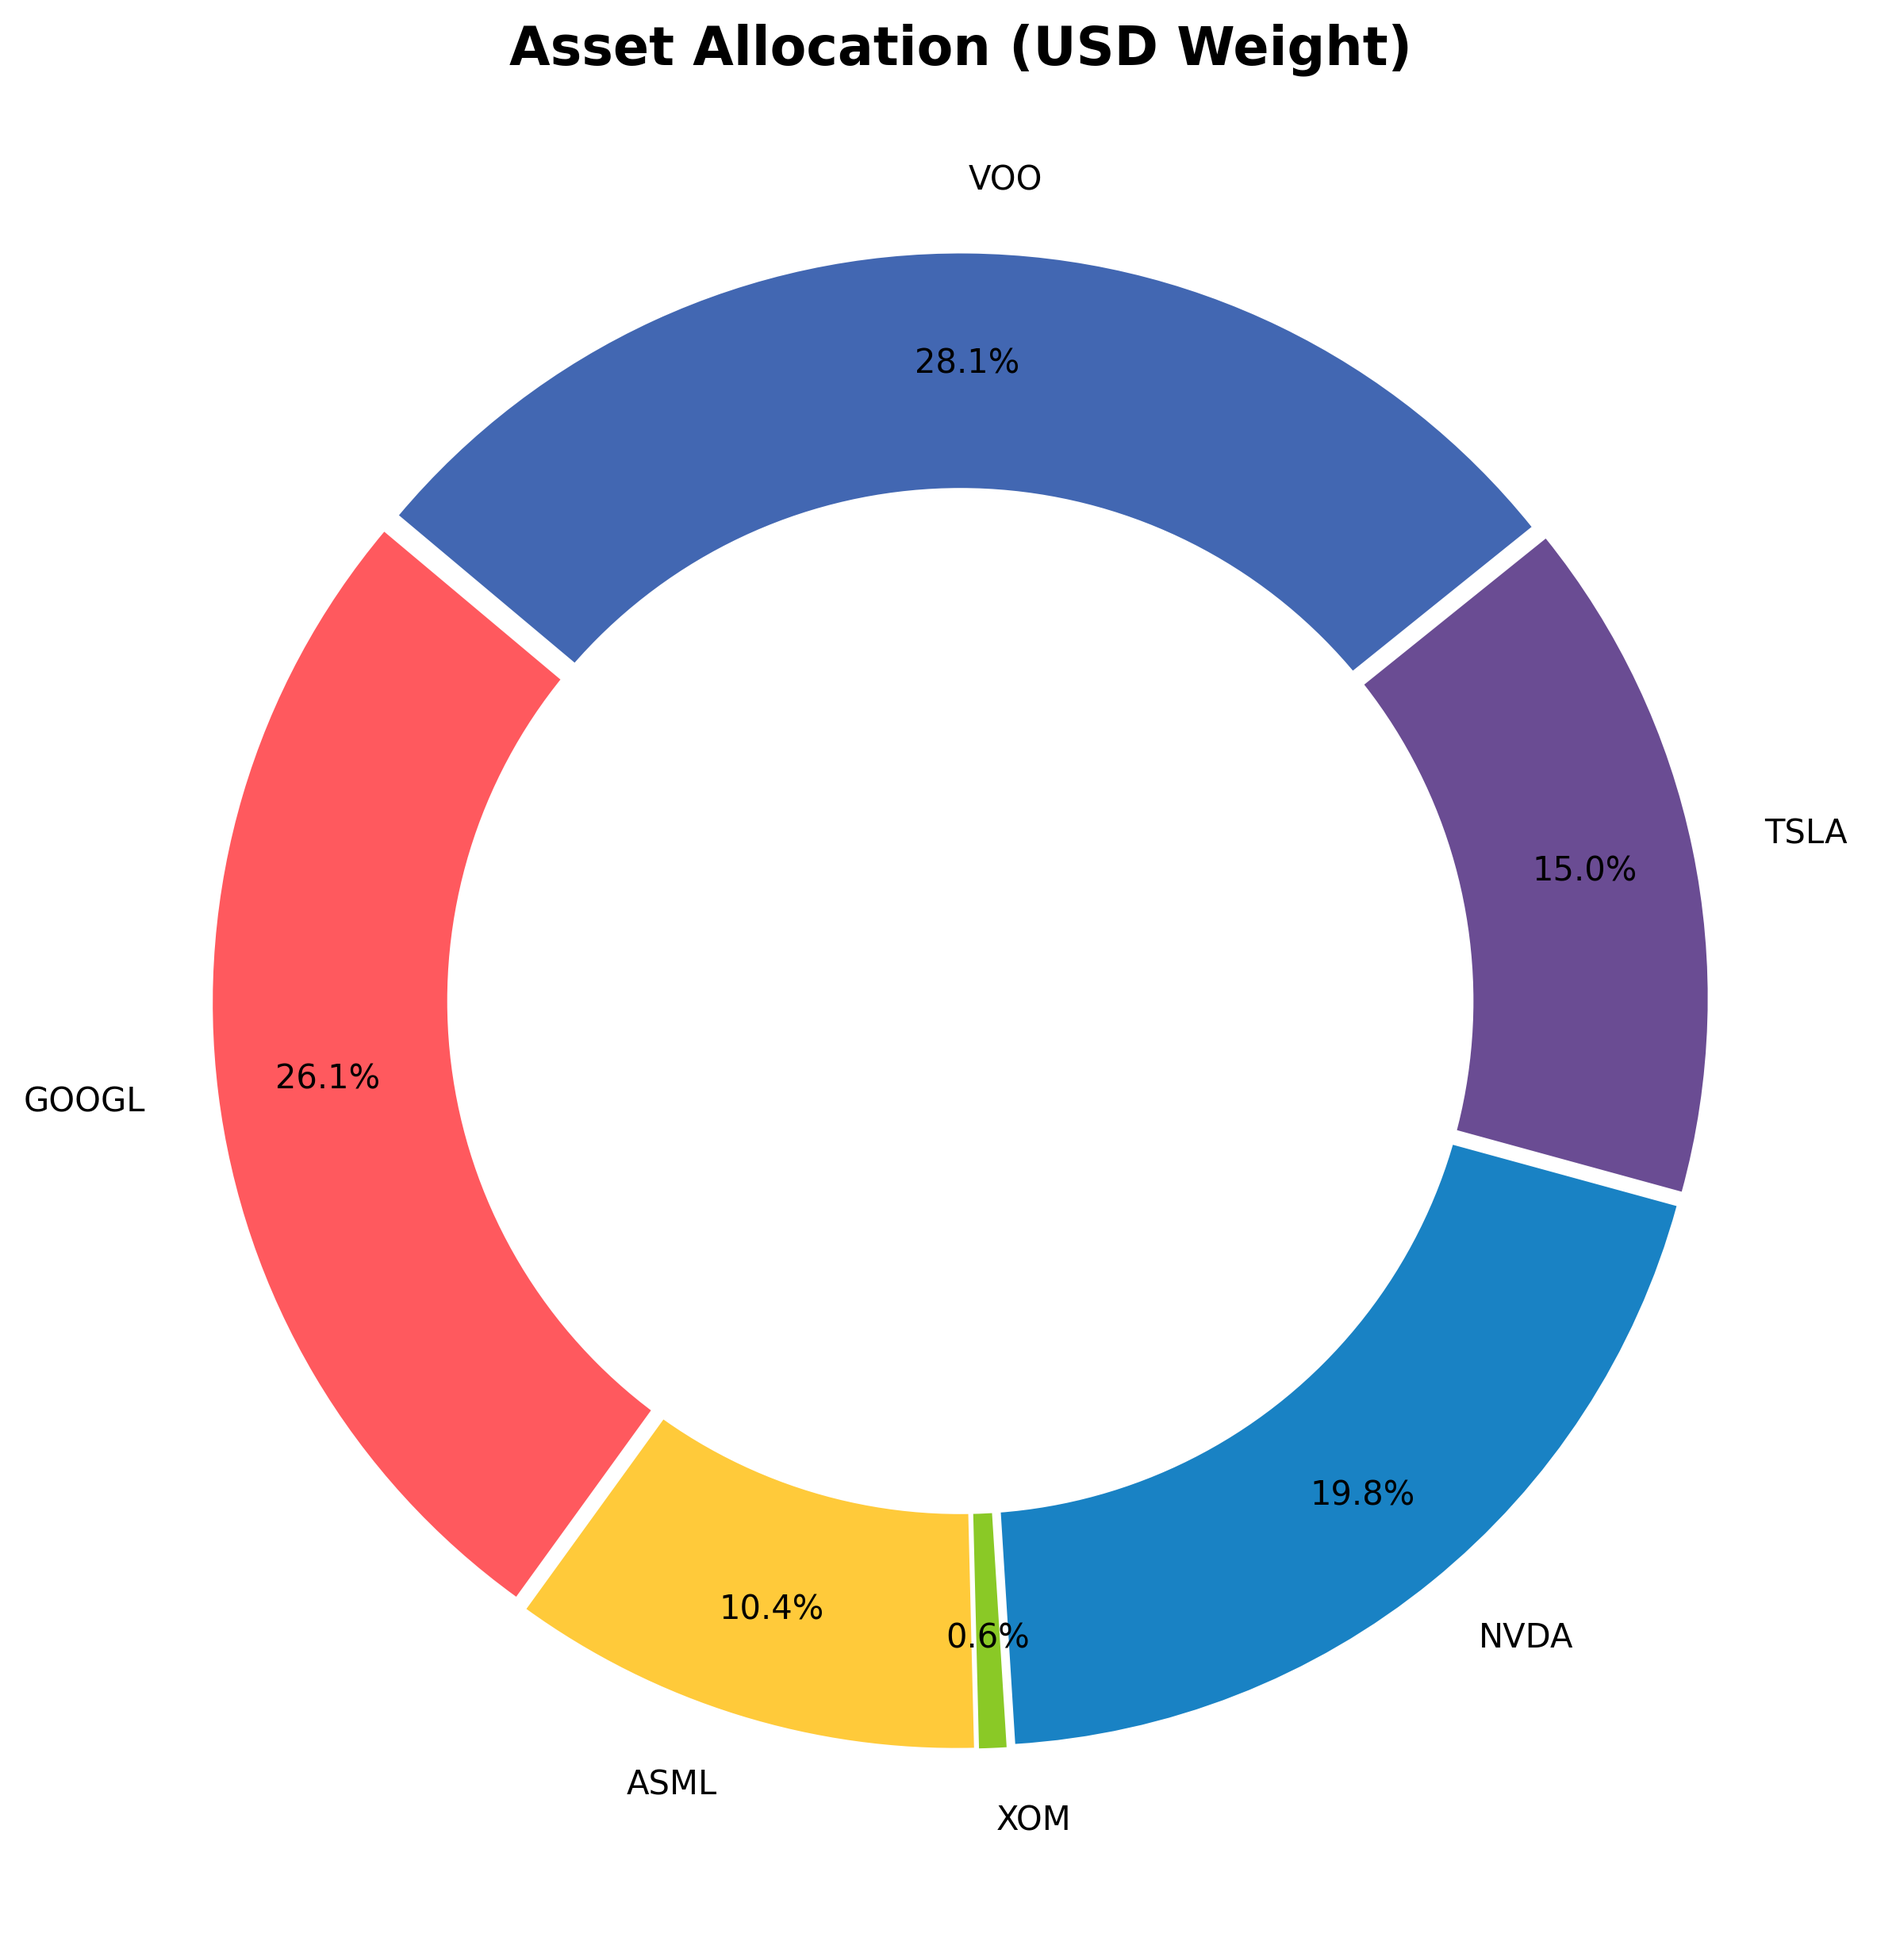
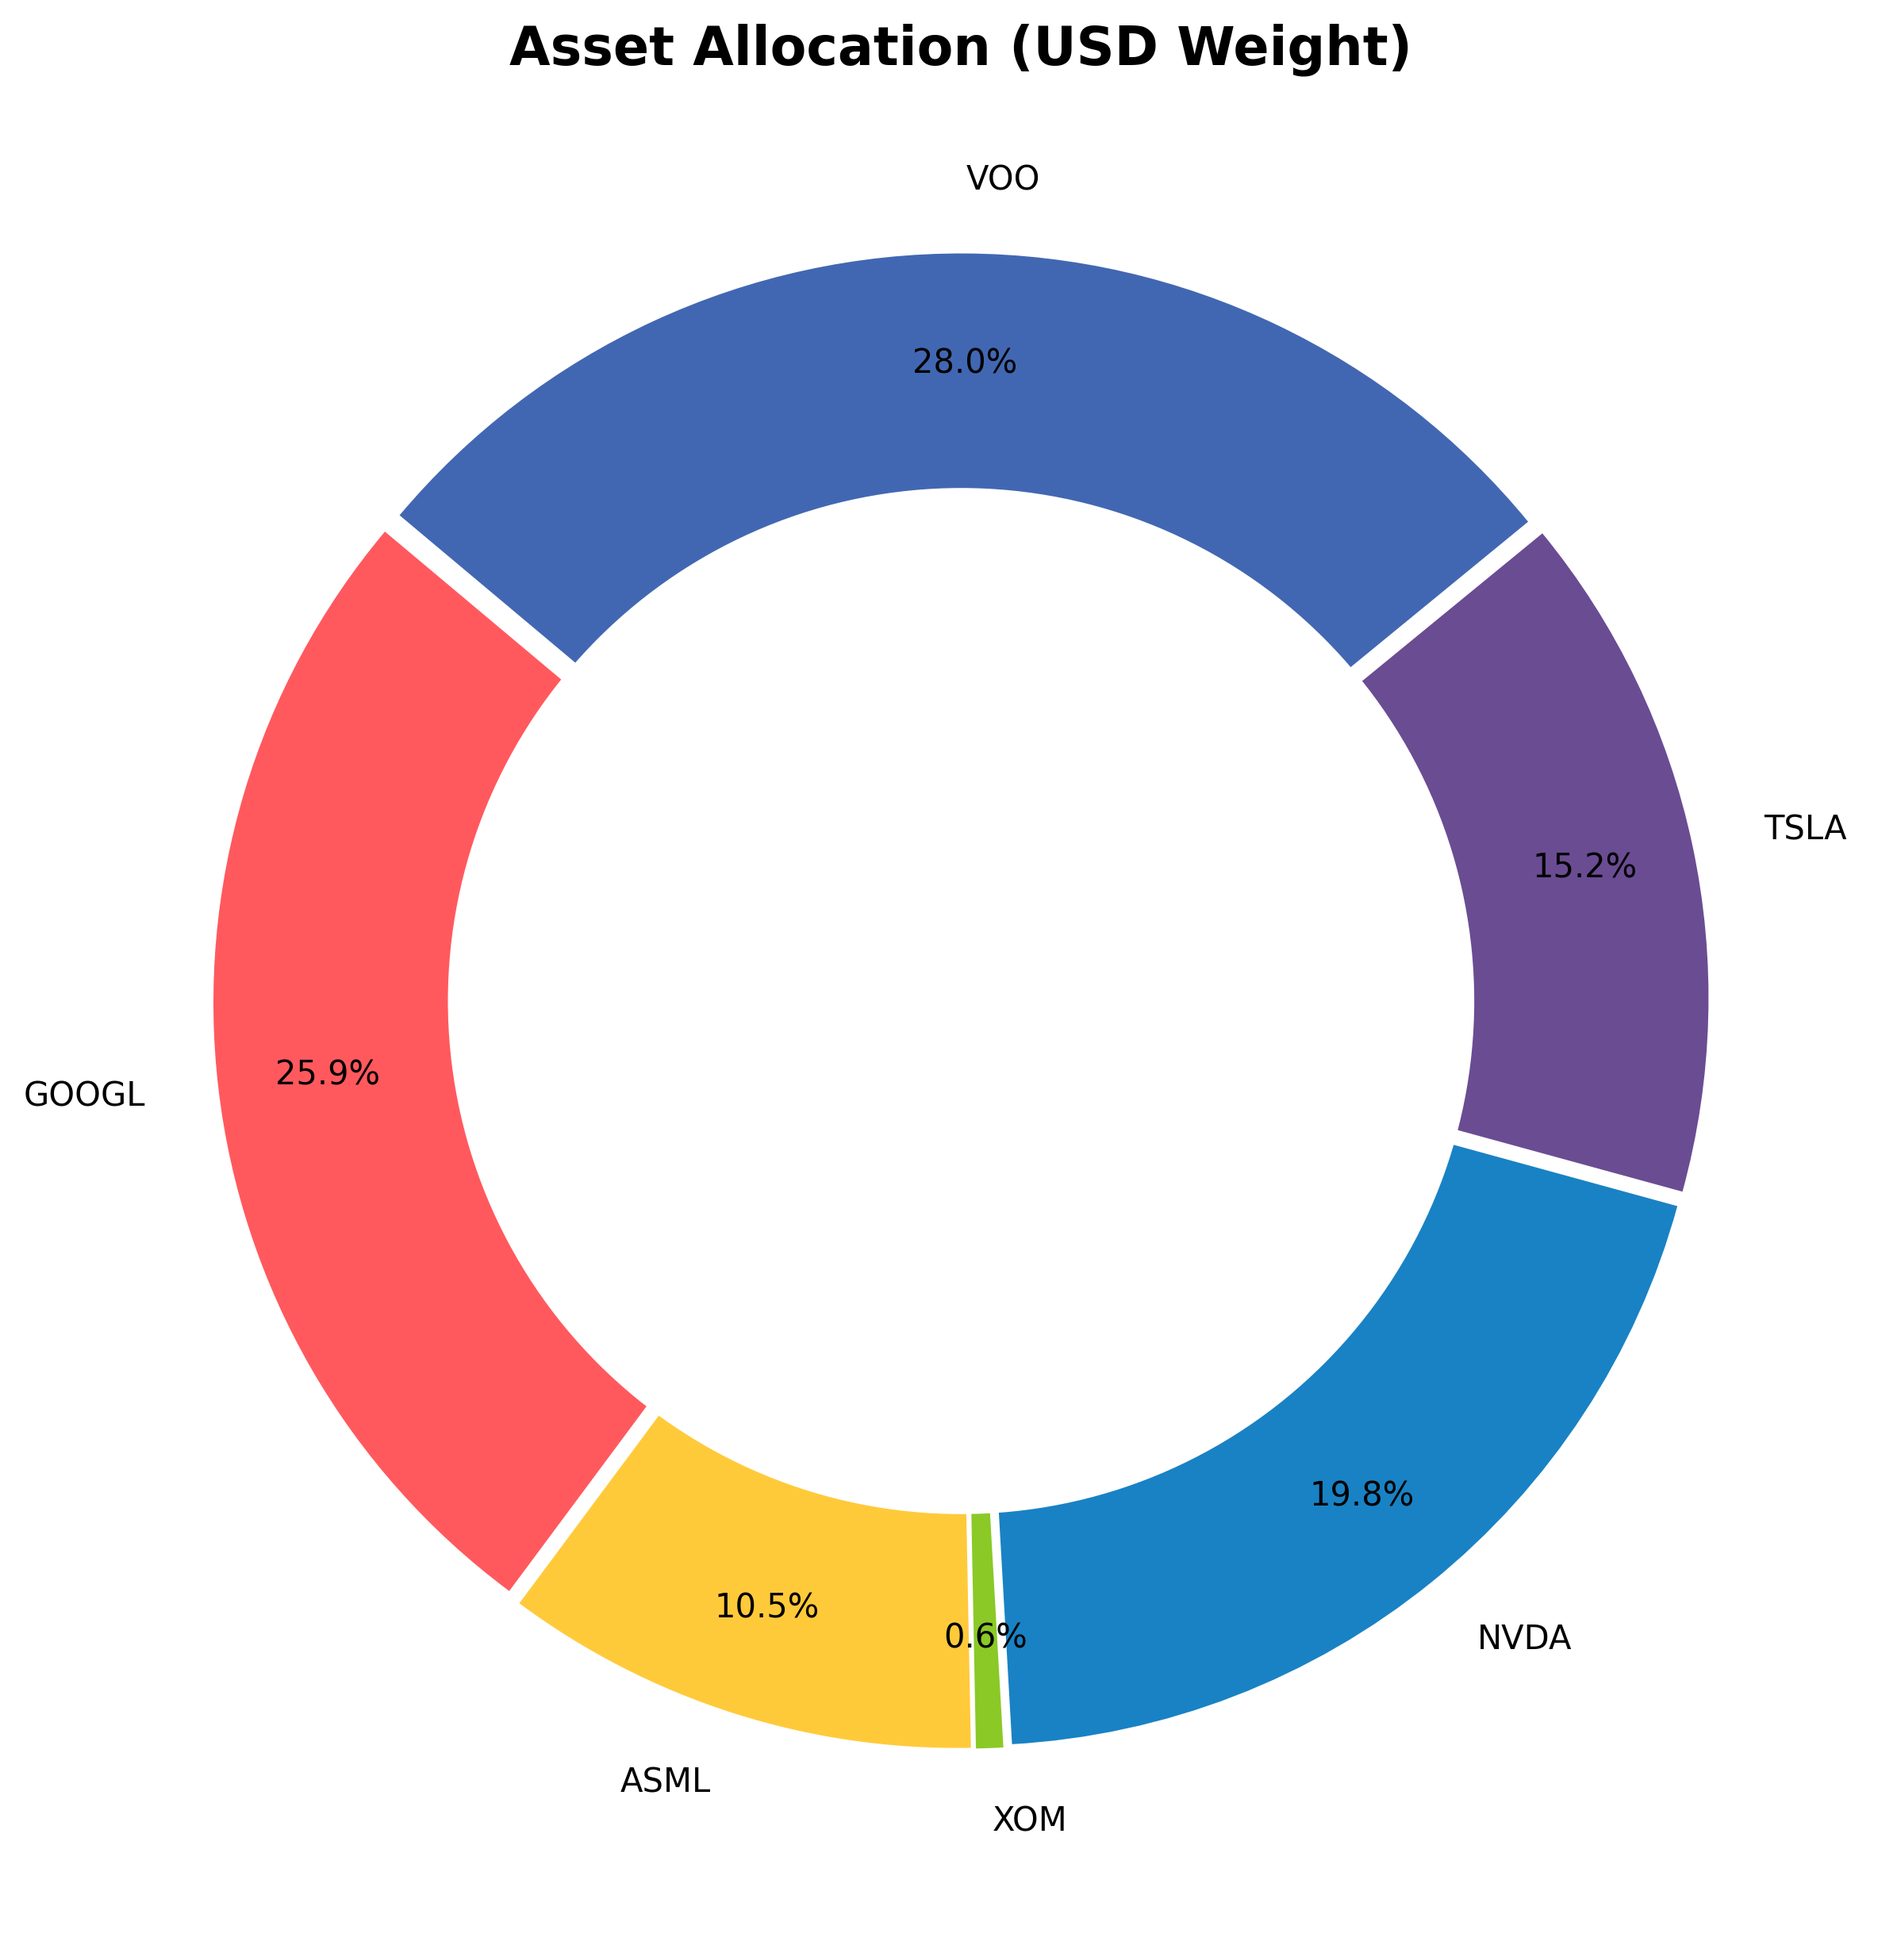
System Run: Analytics & Archive Update [skip ci]

diff --git a/README.md b/README.md
@@ -1,23 +1,23 @@
 # 📊 Portfolio Dashboard | מעקב תיק השקעות
-**Last Update:** 14/03/2026 00:33 | **USD/ILS:** ₪3.143
+**Last Update:** 16/03/2026 16:41 | **USD/ILS:** ₪3.123
 
 ## 💰 Portfolio Summary | סיכום התיק
 | Metric | Value | נתון |
 | :--- | :--- | :--- |
-| **Current Value** | `₪163,494` | **שווי נוכחי** |
-| **Total Invested** | `₪132,008` | **סך השקעה** |
-| **Total Profit/Loss** | `+23.85%` (₪31,486) | **רווח/הפסד כולל** |
-| **Daily Change** | `-0.74%` | **שינוי יומי** |
+| **Current Value** | `₪164,836` | **שווי נוכחי** |
+| **Total Invested** | `₪131,152` | **סך השקעה** |
+| **Total Profit/Loss** | `+25.68%` (₪33,685) | **רווח/הפסד כולל** |
+| **Daily Change** | `+1.48%` | **שינוי יומי** |
 
 ## 📜 Holdings | פירוט החזקות
 | Ticker | Shares | Avg. Cost | Current Price | P&L % | P&L ILS |
 | :--- | :--- | :--- | :--- | :--- | :--- |
-| GOOGL | 45 | $181.15 | $302.22 | 🟢 +66.83% | ₪17,124 |
-| ASML | 4 | $934.51 | $1,346.91 | 🟢 +44.13% | ₪5,185 |
-| XOM | 2 | $126.08 | $156.14 | 🟢 +23.84% | ₪189 |
-| NVDA | 57 | $148.62 | $180.26 | 🟢 +21.29% | ₪5,669 |
-| TSLA | 20 | $436.45 | $391.17 | 🔴 -10.37% | ₪-2,846 |
-| VOO | 24 | $527.38 | $609.12 | 🟢 +15.50% | ₪6,166 |
+| GOOGL | 45 | $181.15 | $304.28 | 🟢 +67.97% | ₪17,302 |
+| ASML | 4 | $934.51 | $1,383.28 | 🟢 +48.02% | ₪5,605 |
+| XOM | 2 | $126.08 | $157.28 | 🟢 +24.75% | ₪195 |
+| NVDA | 57 | $148.62 | $183.71 | 🟢 +23.61% | ₪6,246 |
+| TSLA | 20 | $436.45 | $400.77 | 🔴 -8.18% | ₪-2,228 |
+| VOO | 24 | $527.38 | $614.97 | 🟢 +16.61% | ₪6,564 |
 
 ## 📈 Charts | גרפים
 ![Performance](./data_hub/portfolio_performance.png)
